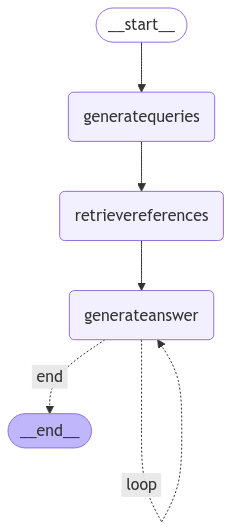
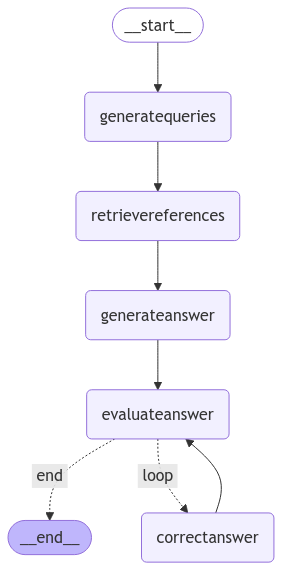
Update graph and agent workflow

diff --git a/agent.py b/agent.py
@@ -2,20 +2,15 @@ import os
 import uuid
 import json
 
-from typing import List, Literal, AsyncGenerator, Sequence
-from typing_extensions import Annotated
+from embeddings_tools import get_vector_store
+from typing import List, Literal, AsyncGenerator, Annotated
+from pydantic import BaseModel, Field
 from operator import add
 
-from pydantic import BaseModel, Field
-
-from langchain.schema import Document
+from langchain.schema import Document, HumanMessage
 from langchain.globals import set_verbose
-
 from langchain_core.prompts import ChatPromptTemplate
-from langchain_core.messages import SystemMessage, AIMessage, BaseMessage
-
-from langchain_qdrant import QdrantVectorStore
-
+from langchain_core.messages import SystemMessage, AIMessage
 from langchain_openai import AzureChatOpenAI, AzureOpenAIEmbeddings
 
 from langgraph.checkpoint.memory import MemorySaver
@@ -42,21 +37,25 @@ class Reference(BaseModel):
             content=document.page_content,
             title=document.metadata.get('source', 'Unknown Title'),
             page=str(document.metadata.get('page', 'Unknown Page')),
-            id=document.metadata.get('_id', 'Unknown ID')
+            id=document.id
         )
     def __str__(self) -> str:
         """Returns a markdown formatted string representation of the reference"""
         return f"""
-> {self.content}
+> *{self.content}*
 >
-> <a href="{self.id}">*{self.title}*, p. {self.page}</a>
+>> **{self.title}**, p. {self.page}
 """
+
+class Evaluation(BaseModel):
+    binary_score: Literal["yes", "no"]
+    explanation: str
 
 class RagState(AgentState):
     question: str
     queries: List[str]
     references: List[Reference]
-    updates: Sequence[SystemMessage]
+    evaluations: Annotated[List[Evaluation], add]
 
 llm = AzureChatOpenAI(
     azure_endpoint=os.environ["AZURE_OPENAI_ENDPOINT"],
@@ -67,13 +66,8 @@ llm = AzureChatOpenAI(
     timeout=None,
     max_retries=3
 )
-json_llm = AzureChatOpenAI(
-    azure_endpoint=os.environ["AZURE_OPENAI_ENDPOINT"],
-    azure_deployment="gpt-4o",
-    openai_api_version=os.environ["AZURE_OPENAI_API_VERSION"],
-    temperature=0.0,
-    response_format={"type": "json_object"}
-)
+
+json_llm = llm.bind(response_format={"type": "json_object"})
 
 def generate_queries(state: RagState):
     question = state["question"]
@@ -81,24 +75,22 @@ def generate_queries(state: RagState):
         ("system", open("prompts\\queries_prompt.txt", "r").read()),
         ("user", "{question}")])
 
-    response = json_llm.invoke(prompt.format(question=question))
+    response = json_llm.invoke(prompt.format(question=question, language=os.environ["LANGUAGE"]))
     parsed_response = json.loads(response.content)
     return {
         "queries": parsed_response["queries"],
-        "updates": [
-            SystemMessage(content="🔍 Generating search queries for your question..."),
-            SystemMessage(content="📚 Searching through the document collection...")
-        ]
+        "updates": [SystemMessage(content="📚 Searching through the document collection...")],
+        "messages": [HumanMessage(content=question)]
     }
 
 def retrieve_references(state: RagState):
     queries = state["queries"]
-    retriever = QdrantVectorStore.from_existing_collection(
-        collection_name=os.environ["QDRANT_COLLECTION"],
-        embedding=embeddings,
-        content_payload_key="text",
-        url=os.environ.get("QDRANT_URL"),
-        api_key=os.environ.get("QDRANT_API_KEY")).as_retriever(k=5)
+
+    vector_store = get_vector_store(os.environ["VECTOR_COLLECTION"], embeddings)
+    retriever = vector_store.as_retriever(
+        search_type="similarity",
+        search_kwargs={"k": 10}
+    )
 
     docs = [doc for query in queries for doc in retriever.invoke(query)]
     references = [Reference.from_document(doc) for doc in docs]
@@ -107,8 +99,7 @@ def retrieve_references(state: RagState):
     return {
         "references": list(unique_refs_dict.values()),
         "updates": [
-            SystemMessage(content=f"📎 Found {len(unique_refs_dict)} relevant references"),
-            SystemMessage(content="🤔 Generating answer based on the references...")
+            SystemMessage(content=f"📎 Found {len(unique_refs_dict)} relevant references."),
         ]
     }
 
@@ -117,30 +108,68 @@ def generate_answer(state: RagState):
     references_txt = "\n".join([str(ref) for ref in state["references"]])
     prompt = ChatPromptTemplate.from_messages([
         ("system", open("prompts\\answer_prompt.txt", "r").read()),
-        ("user", "{question}")])
+        ("user", "QUESTION: {question}\n\nREFERENCES: {references}")])
 
-    response = llm.invoke(prompt.format(question=query, references=references_txt))
+    response = llm.invoke(
+        prompt.format(
+            language=os.environ["LANGUAGE"],
+            question=query,
+            references=references_txt
+        )
+    )
     
     return {
-        "messages": [            
-            AIMessage(content=response.content)
-        ]
+        "messages": [AIMessage(content=response.content)]
     }
 
-def evaluate_answer(state: RagState) -> Literal["end", "loop"]:
+def evaluate_answer(state: RagState):
     answer = state["messages"][-1].content
     references = "\n".join([str(ref) for ref in state["references"]])
     prompt = ChatPromptTemplate.from_messages([
         ("system", open("prompts\\grade_prompt.txt", "r").read()),
-        ("user", "FACTS: {references}\n\nANSWER: {answer}")])
+        ("user", "FACTS: {references}\n\nANSWER: {answer}")]
+    )
     
     result = json_llm.invoke(prompt.format(references=references, answer=answer))
-    score = json.loads(result.content)["binary_score"]
+    evaluation = Evaluation.model_validate_json(result.content)
 
-    if score == "yes":
+    return {
+        "evaluations": [evaluation]
+    }
+
+def evaluate_edge(state: RagState) -> Literal["end", "loop"]:
+    evaluation = state["evaluations"][-1]
+    if evaluation.binary_score == "yes":
         return "end"
     else:
         return "loop"
+
+def correct_answer(state: RagState):
+    answer = state["messages"][-1].content
+    evaluation = state["evaluations"][-1]
+    question = state["question"]
+    references = "\n".join([str(ref) for ref in state["references"]])
+
+    prompt = ChatPromptTemplate.from_messages([
+        ("system", open("prompts\\grade_prompt.txt", "r").read()),
+        ("user", """QUESTION: {question}\n\n
+            REFERENCES: {references}\n\n
+            Improve the below answer, taking into account the professor's remarks.\n\n
+            ANSWER: {answer}\n\n
+            PROFESSOR REMARKS:{evaluation}"""
+        )
+    ])
+
+    response = llm.invoke(prompt.format(
+        references=references,
+        question=question,
+        answer=answer,
+        evaluation=evaluation.justification)
+    )
+
+    return {
+        "messages": [AIMessage(content=response.content)]
+    }
 
 def construct_agent_graph() -> CompiledStateGraph:
     checkpointer = MemorySaver()
@@ -149,16 +178,20 @@ def construct_agent_graph() -> CompiledStateGraph:
     workflow.add_node("generatequeries", generate_queries);
     workflow.add_node("retrievereferences", retrieve_references);
     workflow.add_node("generateanswer", generate_answer);
+    workflow.add_node("evaluateanswer", evaluate_answer);
+    workflow.add_node("correctanswer", correct_answer);
 
     workflow.set_entry_point("generatequeries")
     workflow.add_edge("generatequeries", "retrievereferences")
     workflow.add_edge("retrievereferences", "generateanswer")
+    workflow.add_edge("generateanswer", "evaluateanswer")
+    workflow.add_edge("correctanswer", "evaluateanswer")
     workflow.add_conditional_edges(
-        "generateanswer",
-        evaluate_answer,
+        "evaluateanswer",
+        evaluate_edge,
         { 
             "end": END,
-            "loop": "generateanswer"
+            "loop": "correctanswer"
         }
     )
 
@@ -183,8 +216,7 @@ async def arun_agent(question: str) -> AsyncGenerator[dict, None]:
         queries=[],
         references=[]
     )
-    
-    # Use astream to get intermediate results
+
     async for _ in graph.astream(initial_state, config=config):
         data = graph.get_state(config=config).values
         yield data
